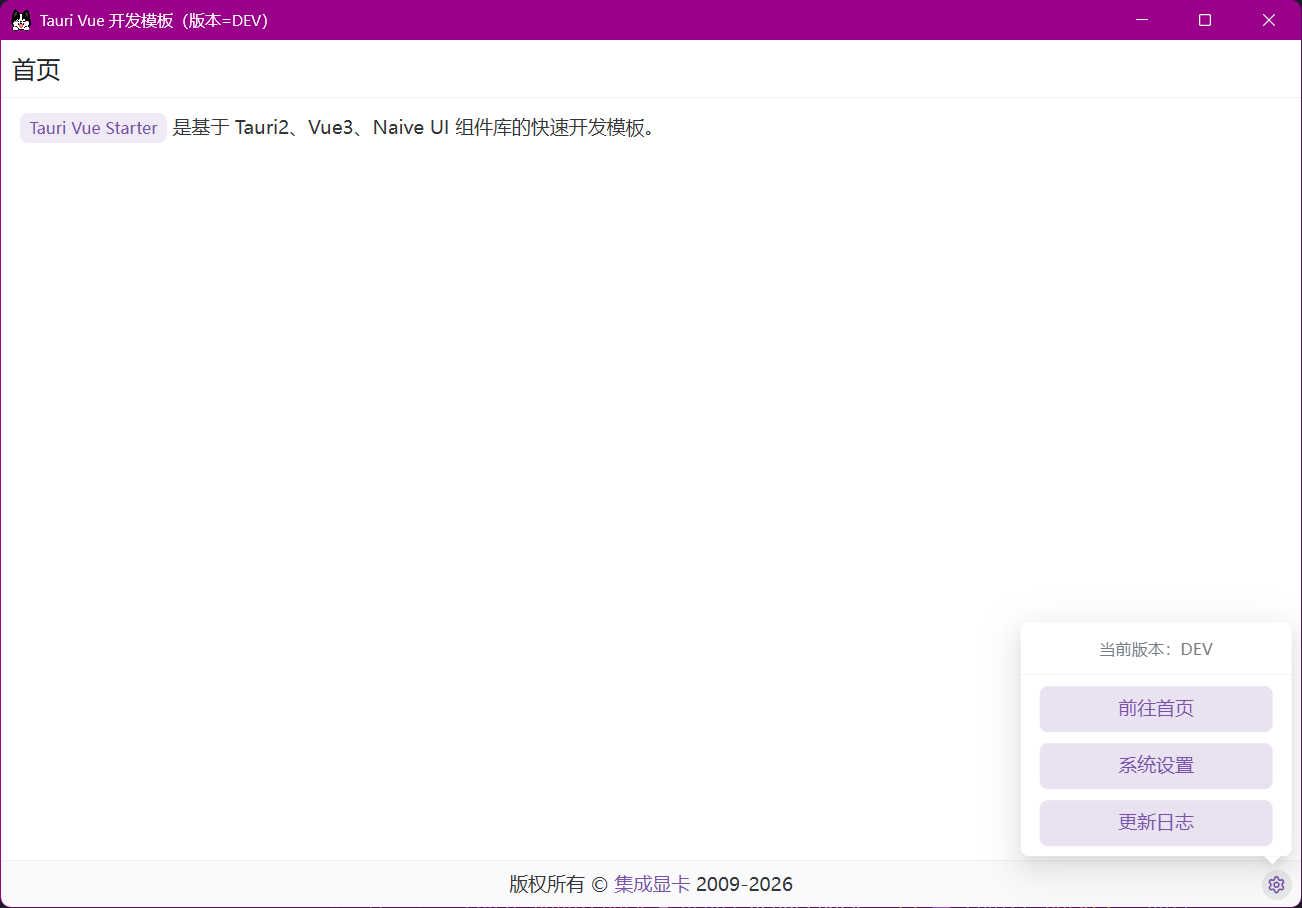
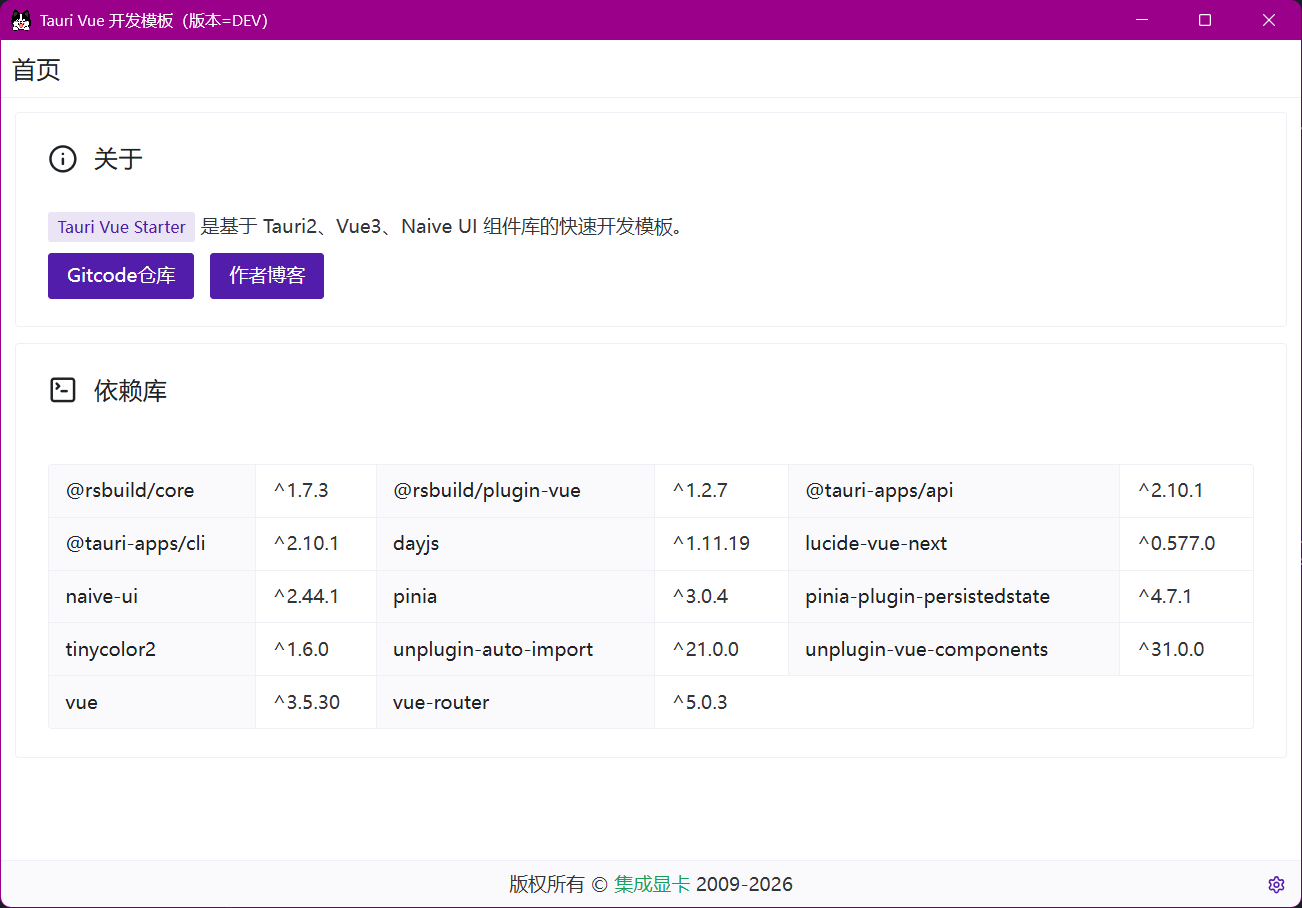
增加主题色切换功能🎉

diff --git a/src/pages/setting.vue b/src/pages/setting.vue
@@ -2,6 +2,29 @@
     <Layout title="设置">
         <n-card size="small" title="修改后自动保存">
             <n-form label-placement="left" label-width="120px">
+                <n-form-item label="主题色">
+                    <n-popover placement="bottom-start" trigger="click" :width="360">
+                        <template #trigger>
+                            <n-button :color="store.color" size="small">{{ colorName }}</n-button>
+                        </template>
+                        <n-space vertical>
+                            <n-text depth="3">请选择配色</n-text>
+                            <n-grid :x-gap="6" :y-gap="6" :cols="4">
+                                <n-gi v-for="(c, name) in colors">
+                                    <n-button @click="changeColor(c, name)" block :color="c">
+                                        <n-icon v-if="c==store.color" color="white" :component="Check"/>
+                                        <template v-else>{{name}}</template>
+                                    </n-button>
+                                </n-gi>
+                            </n-grid>
+                            <n-input v-model:value="customColor" placeholder="自定义颜色（以 # 开头）">
+                                <template #suffix>
+                                    <n-button size="tiny" type="primary" secondary @click="changeColor(customColor, CUSTOM)">应用</n-button>
+                                </template>
+                            </n-input>
+                        </n-space>
+                    </n-popover>
+                </n-form-item>
                 <n-form-item label="启用暗黑模式">
                     <n-switch v-model:value="store.dark" />
                 </n-form-item>
@@ -11,7 +34,39 @@
 </template>
 
 <script setup>
-    import { useStore } from '@/store'
+    import { Check } from 'lucide-vue-next'
+    import { useStore, colors } from '@/store'
+    import { useMessage } from 'naive-ui'
 
     const store = useStore()
+    const message = useMessage()
+
+    const CUSTOM = "自定义"
+    let customColor = ref("")
+
+    /**
+     * 从 store 中获取 colorName 配置
+     */
+    const colorName = computed(()=> {
+        for (const name in colors) {
+            if (colors[name] == store.color)
+                return name
+        }
+        return CUSTOM
+    })
+
+    const changeColor = (c, name)=>{
+        if(!c)  return message.warning(`无效的颜色值`)
+        if(!c.startsWith("#"))
+            c = `#${c}`
+
+        store.color = c
+        message.info(`主题色切换为⌈${name}⌋`)
+    }
+    const initColor = ()=>{
+        if (colorName.value == CUSTOM)
+            customColor.value = store.color
+    }
+
+    onMounted( initColor )
 </script>

diff --git a/src/pages/home.vue b/src/pages/home.vue
@@ -1,15 +1,39 @@
 <template>
     <Layout title="首页" :headerBack="false">
-        <n-card title="关于">
-            <Tag>Tauri Vue Starter</Tag>是基于 Tauri2、Vue3、Naive UI 组件库的快速开发模板。
+        <n-card>
+            <template #header>
+                <n-space>
+                    <Info class="mt-1" size="22px" />
+                    <div>关于</div>
+                </n-space>
+            </template>
+            <n-space vertical>
+                <div>
+                    <Tag class="mr-1">Tauri Vue Starter</Tag>是基于 Tauri2、Vue3、Naive UI 组件库的快速开发模板。
+                </div>
+
+                <n-space>
+                    <n-button type="primary">Gitcode仓库</n-button>
+                    <n-button type="primary">作者博客</n-button>
+                </n-space>
+            </n-space>
         </n-card>
 
-        <n-card title="依赖库" class="mt-2">
-
+        <n-card class="mt-3">
+            <template #header>
+                <n-space>
+                    <SquareTerminal class="mt-1" size="22px"/>
+                    <div>依赖库</div>
+                </n-space>
+            </template>
+            <n-descriptions class="mt-4" label-placement="left" bordered :column="3" size="small">
+                <n-descriptions-item v-for="(version, name) in devDependencies" :label="name">{{version}}</n-descriptions-item>
+            </n-descriptions>
         </n-card>
     </Layout>
 </template>
-
 <script setup>
+    import { Info, SquareTerminal } from 'lucide-vue-next'
 
+    const devDependencies = APP_DEPENDENCIES
 </script>

diff --git a/src/App.vue b/src/App.vue
@@ -1,5 +1,5 @@
 <template>
-    <n-config-provider :locale="zhCN" :theme>
+    <n-config-provider :locale="zhCN" :theme :theme-overrides="themeOverrides">
         <n-message-provider>
             <n-dialog-provider>
                 <n-notification-provider>
@@ -22,6 +22,7 @@
 
 <script setup>
     import { zhCN, darkTheme } from 'naive-ui'
+    import tinycolor from "tinycolor2"
     import { getCurrentWindow } from '@tauri-apps/api/window'
 
     import Footer from "@W/footer.vue"
@@ -34,6 +35,20 @@
      * 从 store 中获取 theme 配置
      */
     const theme = computed(()=> store.dark ? darkTheme : null)
+    const themeOverrides = computed(()=>{
+        const c = tinycolor(store.color)
+        // const hover = c.brighten().toString()
+        const hover = c.monochromatic()[1].toHexString()
+        console.log(hover, c.saturate().toString())
+        return {
+            common: {
+                primaryColor: store.color,
+                primaryColorHover: hover,
+                primaryColorSuppl: hover,
+                primaryColorPressed: c.saturate().toString()
+            }
+        }
+    })
 
     /**
      * 修改窗口标题为页面标题，以保持一致性

diff --git a/src/store.js b/src/store.js
@@ -1,8 +1,29 @@
 import { defineStore } from 'pinia'
 
+/**
+ * 主配色
+ * 色彩来源 https://ant-design.antgroup.com/docs/spec/colors-cn
+ * 感谢 ant-design 项目😄
+ */
+export const colors = {
+    '默认': '#18a058',
+    '企业蓝': '#1677ff',
+    '极客蓝': '#1d39c4',
+    '法式洋红': '#c41d7f',
+    '酱紫': '#531dab',
+    '明青': '#08979c',
+    '极光绿': '#389e0d',
+    '日出': '#d4b106',
+    '金盏花': '#d48806',
+    '日暮': '#d46b08',
+    '火山': '#d4380d',
+    '薄暮': '#cf1322',
+}
+
 export const useStore = defineStore('ui', {
     state:()=>({
-        dark: false,        //启用暗黑模式
+        color: colors[`默认`],   //主题色
+        dark: false,            //启用暗黑模式
     }),
     actions: {
     },

diff --git a/rsbuild.config.js b/rsbuild.config.js
@@ -27,6 +27,7 @@ export default defineConfig({
             "_VERSION_"         : JSON.stringify(version),
             "_AUTHOR_"          : JSON.stringify(pkg.author),
             "APP_TITLE"         : JSON.stringify(pkg.cnName),
+            "APP_DEPENDENCIES"  : JSON.stringify(pkg.devDependencies)
         }
     },
     html:{

diff --git a/src/pages/changelog.vue b/src/pages/changelog.vue
@@ -4,6 +4,7 @@
             <div class="version">26.3.13 <n-text class="tip" depth="3">首个版本</n-text></div>
             <ul>
                 <li>完成基本项目框架</li>
+                <li>支持<Tag>变更主题色</Tag>与<Tag>暗黑模式</Tag></li>
             </ul>
         </div>
     </Layout>

diff --git a/src/widget/tag.vue b/src/widget/tag.vue
@@ -1,5 +1,5 @@
 <template>
-    <n-tag :bordered :type :size style="margin: 0px 4px 0px 4px;">
+    <n-tag :bordered :type :size>
         <slot></slot>
     </n-tag>
 </template>
